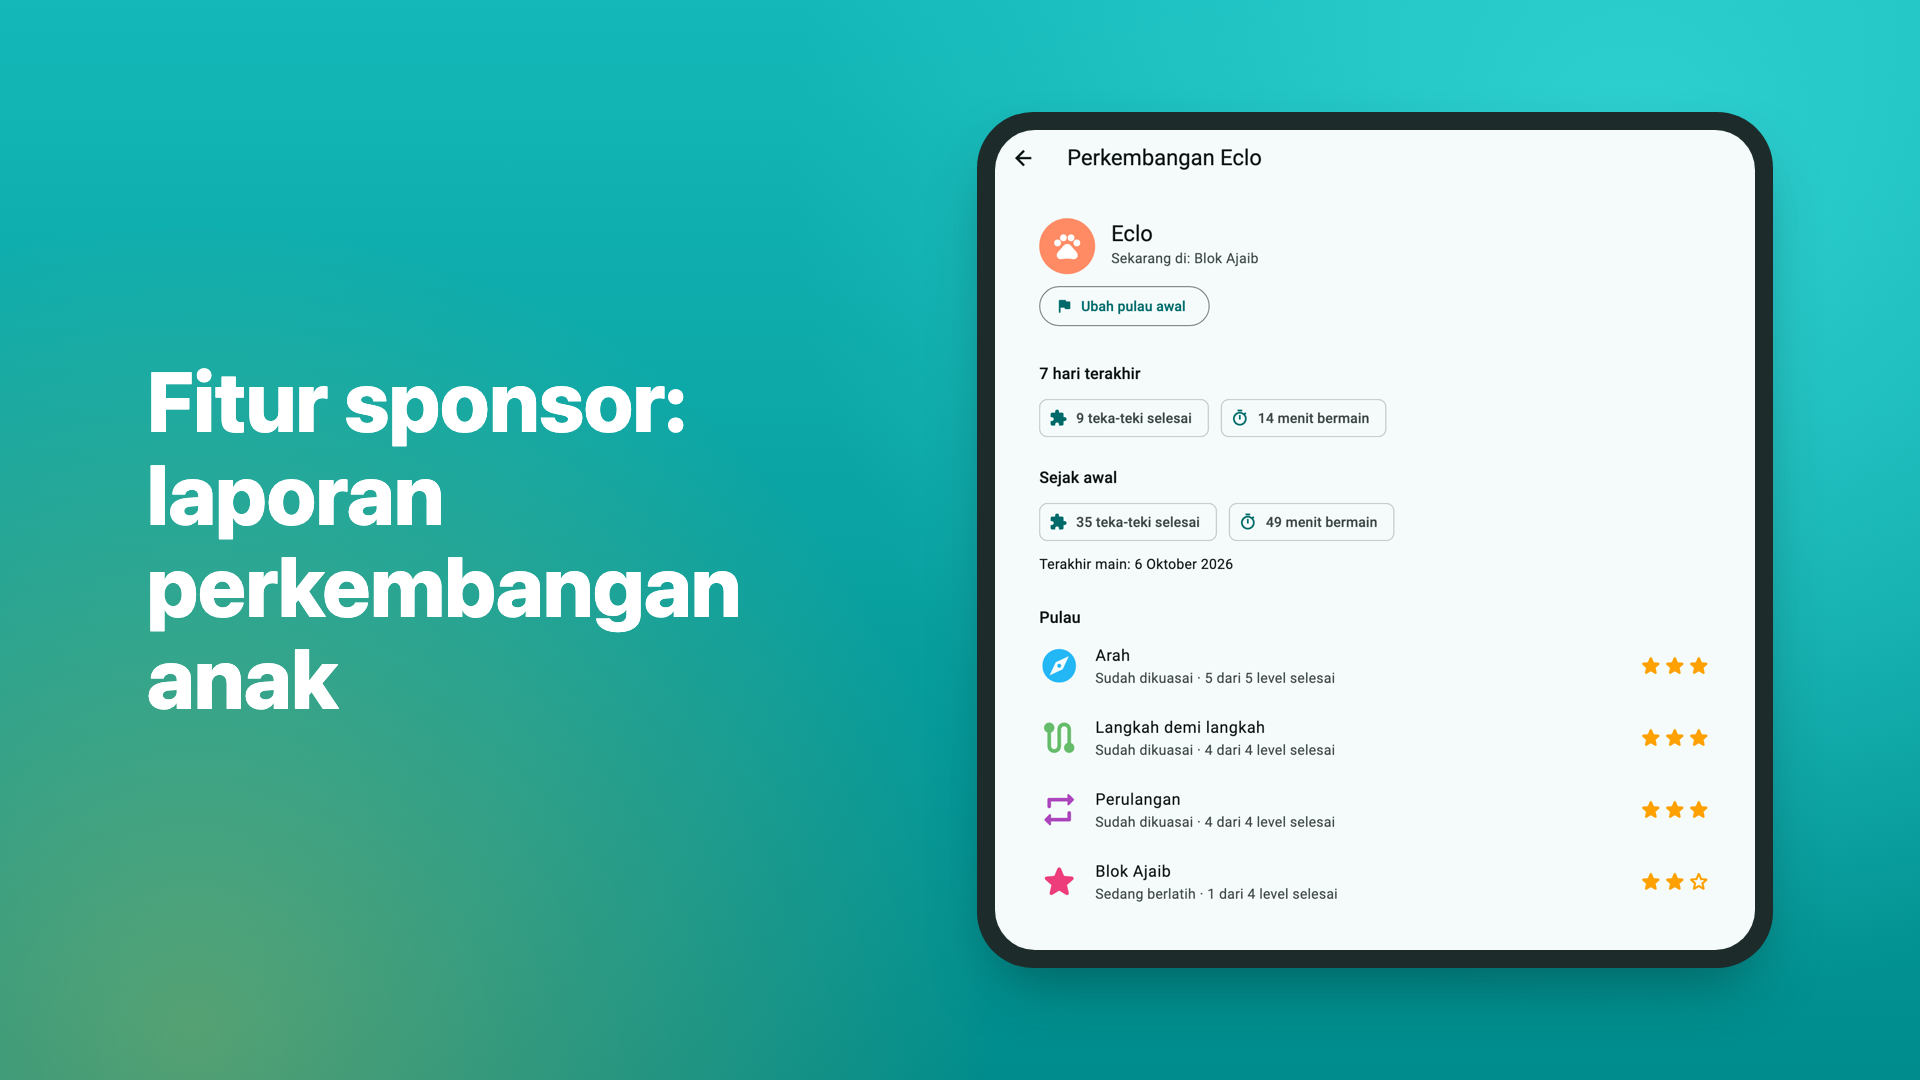
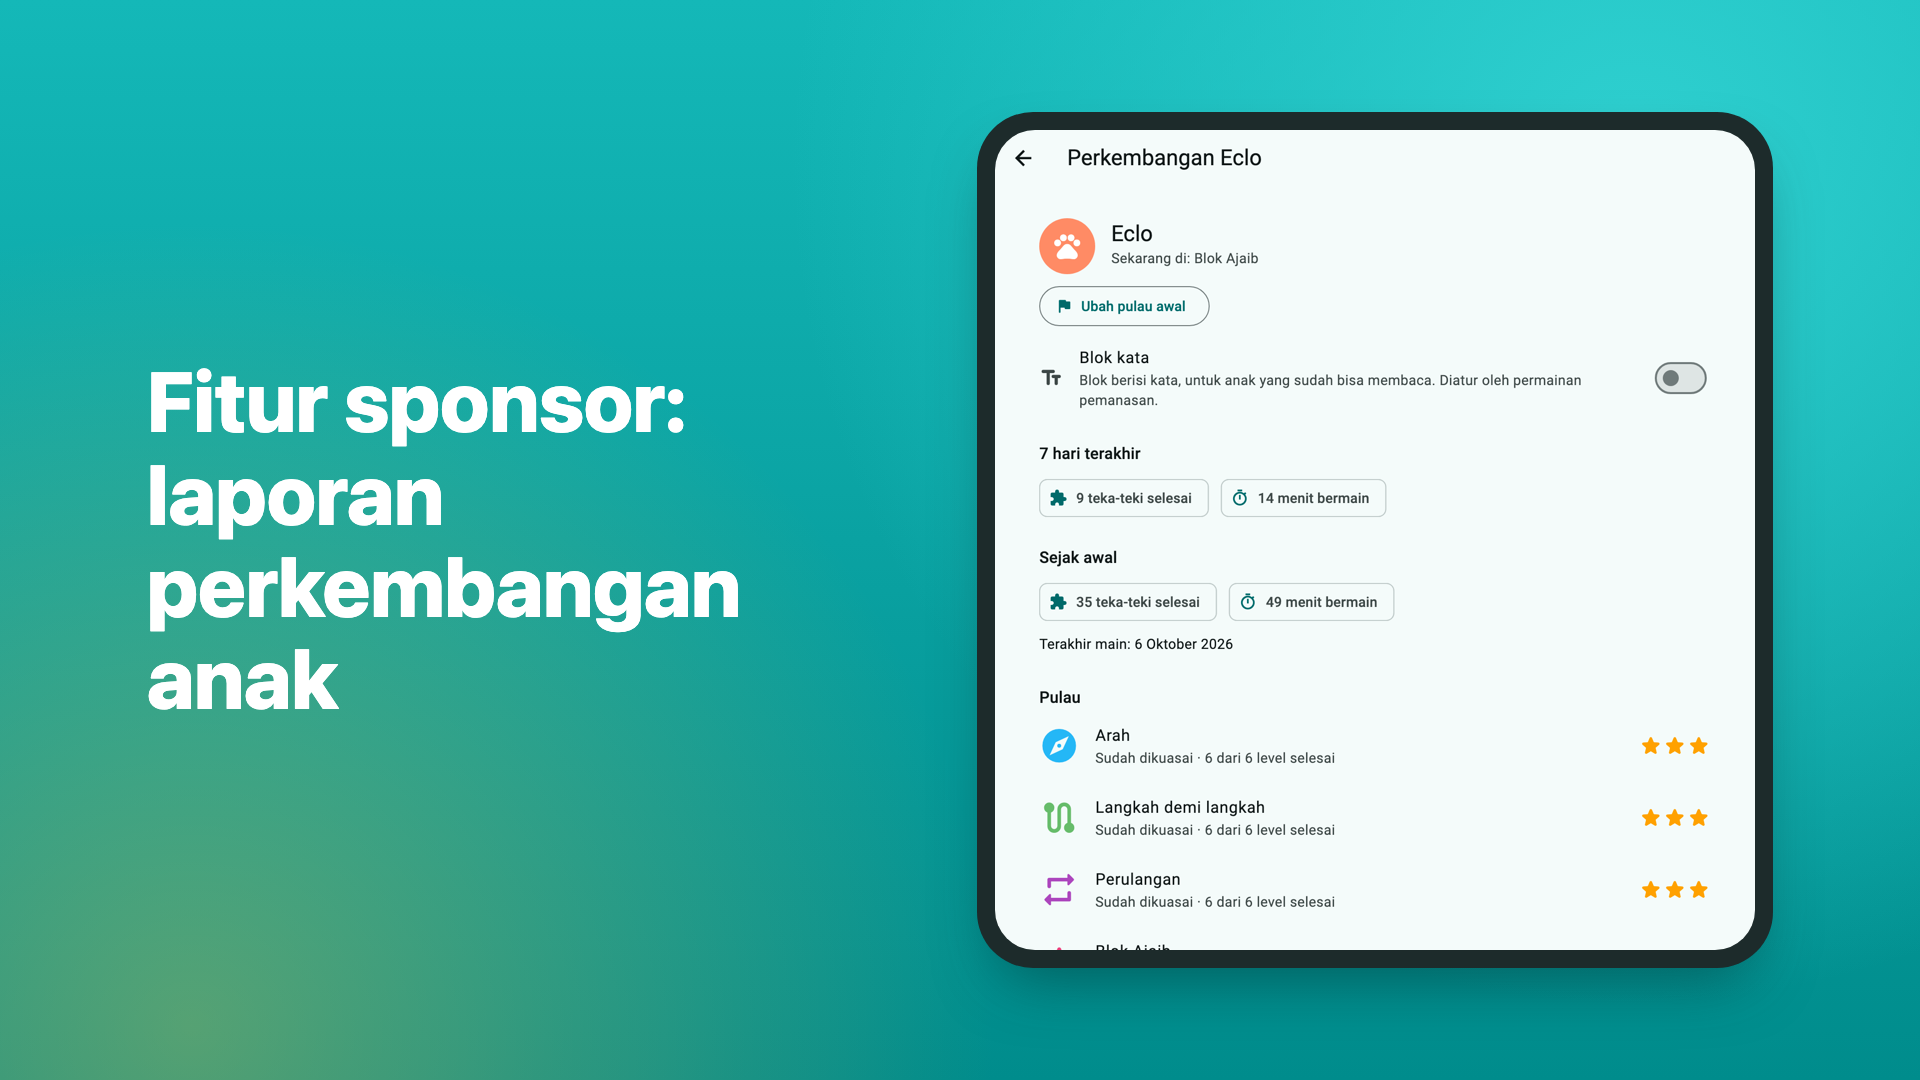
docs(store): add portrait phone screenshots
tool/screenshots now also renders six portrait phone screenshots in both
languages (map, Loops and Magic Block puzzles, solved, warm-up,
progress), and store/render.sh frames them as 1080 x 1920 slides in
store/<locale>/phone_screenshots/ for Play's phone section. The sample
child's lesson counts match the new lesson packs.

diff --git a/tool/screenshots/screenshots_test.dart b/tool/screenshots/screenshots_test.dart
@@ -35,6 +35,9 @@ import 'package:sembast/sembast_memory.dart';
 /// Screenshots are 1280 x 740 logical pixels, rendered at 2x.
 const _size = Size(1280, 740);
 
+/// Phone screenshots, portrait.
+const _phone = Size(400, 760);
+
 /// The Material fonts that ship with the Flutter SDK running this test.
 Future<void> _loadFonts() async {
   final tester = Platform.resolvedExecutable;
@@ -95,9 +98,9 @@ Future<Database> _seed(String language) async {
       ),
       progress: {
         for (final (id, n) in [
-          ('directions', 5),
-          ('sequencing', 4),
-          ('loops', 4),
+          ('directions', 6),
+          ('sequencing', 6),
+          ('loops', 6),
         ])
           id: ConceptProgress(
             scores: const [1, 0.9, 1],
@@ -200,6 +203,59 @@ Future<void> _buildAnswer(WidgetTester tester, String levelId) async {
   throw StateError('no star answer for $levelId');
 }
 
+/// Builds a one-repeat answer to the loops level [levelId] in the editor.
+Future<void> _buildLoopAnswer(WidgetTester tester, String levelId) async {
+  final level = parseLevelPack(
+    File('assets/levels/loops.json').readAsStringSync(),
+  ).firstWhere((l) => l.id == levelId);
+  final steps = solve(level)!.body.map((i) => i.kind).toList();
+  final cubit = tester.element(find.byType(BlockEditor)).read<BlocksCubit>();
+  BlockType type(InstructionKind kind) =>
+      BlockType.values.firstWhere((t) => t.kind == kind);
+  for (var unit = 1; unit <= steps.length ~/ 2; unit++) {
+    for (var start = 0; start + unit * 2 <= steps.length; start++) {
+      final body = steps.sublist(start, start + unit);
+      bool same(int at) => List.generate(
+        unit,
+        (j) => at + j < steps.length && steps[at + j] == body[j],
+      ).every((s) => s);
+      var times = 1;
+      while (same(start + times * unit)) {
+        times++;
+      }
+      var rest = steps.sublist(start + times * unit);
+      // The run stops on the goal, so a final repeat may end part-way.
+      if (rest.isNotEmpty &&
+          rest.length < unit &&
+          List.generate(
+            rest.length,
+            (j) => rest[j] == body[j],
+          ).every((s) => s)) {
+        times++;
+        rest = [];
+      }
+      final blocks = start + 1 + unit + rest.length;
+      if (times >= 2 && blocks <= level.maxBlocks!) {
+        for (final kind in steps.sublist(0, start)) {
+          cubit.add(type(kind));
+        }
+        cubit.add(BlockType.repeat);
+        final loop = cubit.state.main.last.id;
+        cubit.setCount(loop, times);
+        for (final kind in body) {
+          cubit.add(type(kind), parentId: loop);
+        }
+        for (final kind in rest) {
+          cubit.add(type(kind));
+        }
+        await _settle(tester);
+        return;
+      }
+    }
+  }
+  throw StateError('no loop answer for $levelId');
+}
+
 void main() {
   setUpAll(_loadFonts);
 
@@ -292,6 +348,65 @@ void main() {
       GoRouter.of(context).push('/parent/progress/1');
       await _settle(tester);
       await shoot('parent-progress');
+    });
+
+    group('phone', () {
+      Future<void> phone(WidgetTester tester, {Plan plan = Plan.free}) =>
+          pumpApp(tester, plan: plan, size: _phone);
+
+      testWidgets('map ($language)', (tester) async {
+        await phone(tester);
+        await _open(tester, '/child/1');
+        await shoot('phone-adventure-map');
+      });
+
+      testWidgets('loops puzzle ($language)', (tester) async {
+        await phone(tester);
+        await _open(tester, '/child/1/replay/loops-03');
+        await _buildLoopAnswer(tester, 'loops-03');
+        await shoot('phone-play-loops');
+      });
+
+      testWidgets('magic block ($language)', (tester) async {
+        await phone(tester);
+        await _open(tester, '/child/1/replay/functions-01');
+        await _buildAnswer(tester, 'functions-01');
+        await shoot('phone-play-functions');
+      });
+
+      testWidgets('solved ($language)', (tester) async {
+        await phone(tester);
+        await _open(tester, '/child/1/replay/loops-03');
+        await _buildLoopAnswer(tester, 'loops-03');
+        await tester.tap(find.text(language == 'id' ? 'Jalan!' : 'Go!'));
+        // Play the run until the cheer card shows, mid-confetti.
+        for (var i = 0; i < 200; i++) {
+          await tester.pump(const Duration(milliseconds: 50));
+          if (find.byIcon(Icons.celebration_rounded).evaluate().isNotEmpty ||
+              find
+                  .text(language == 'id' ? 'Lanjut' : 'Next')
+                  .evaluate()
+                  .isNotEmpty) {
+            break;
+          }
+        }
+        await shoot('phone-solved');
+      });
+
+      testWidgets('warm-up ($language)', (tester) async {
+        await phone(tester);
+        await _open(tester, '/child/2/pretest');
+        await shoot('phone-warm-up');
+      });
+
+      testWidgets('progress ($language)', (tester) async {
+        await phone(tester, plan: Plan.full);
+        await _open(tester, '/parent');
+        final context = tester.element(find.byType(Scaffold).first);
+        GoRouter.of(context).push('/parent/progress/1');
+        await _settle(tester);
+        await shoot('phone-parent-progress');
+      });
     });
   }
 }

diff --git a/README.md b/README.md
@@ -200,9 +200,9 @@ The icon (coral character on teal) is drawn in `branding/icon.svg`, with a one-c
 
 ## Store listing
 
-`store/<locale>/` holds the Google Play listing for Indonesian (`id`) and English (`en-US`): `title.txt` (max 30 characters), `short_description.txt` (max 80), `full_description.txt` (max 4,000) and `changelogs/<versionCode>.txt` with each build's release notes (max 500), plus `feature_graphic.png` (1024 × 500) and `screenshots/` (1920 × 1080, 16:9). Upload the same screenshots to the phone, 7-inch and 10-inch tablet sections. The app icon for the listing is `branding/play_store_icon.png`.
+`store/<locale>/` holds the Google Play listing for Indonesian (`id`) and English (`en-US`): `title.txt` (max 30 characters), `short_description.txt` (max 80), `full_description.txt` (max 4,000) and `changelogs/<versionCode>.txt` with each build's release notes (max 500), plus `feature_graphic.png` (1024 × 500), `screenshots/` (1920 × 1080, 16:9) for the 7-inch and 10-inch tablet sections and `phone_screenshots/` (1080 × 1920, 9:16) for the phone section. The app icon for the listing is `branding/play_store_icon.png`.
 
-`flutter test tool/screenshots --update-goldens && tool/screenshots/export.sh` renders the adventure map, Magic Block and progress screenshots from the real app with sample data into `website/screenshots/` (the others were captured on a device). `store/render.sh` then re-renders the graphics from `website/screenshots/` and the icon art. Play doesn't allow ranking or promotional words ("best", "#1", "new", "sale"), calls to action or emoji in the listing.
+`flutter test tool/screenshots --update-goldens && tool/screenshots/export.sh` renders screenshots from the real app with sample data into `website/screenshots/`: the tablet map, Magic Block and progress screenshots, and every `phone-*` screenshot in portrait (the other tablet ones were captured on a device). `store/render.sh` then re-renders the graphics from `website/screenshots/` and the icon art. Play doesn't allow ranking or promotional words ("best", "#1", "new", "sale"), calls to action or emoji in the listing.
 
 ## Roadmap (MVP)
 
